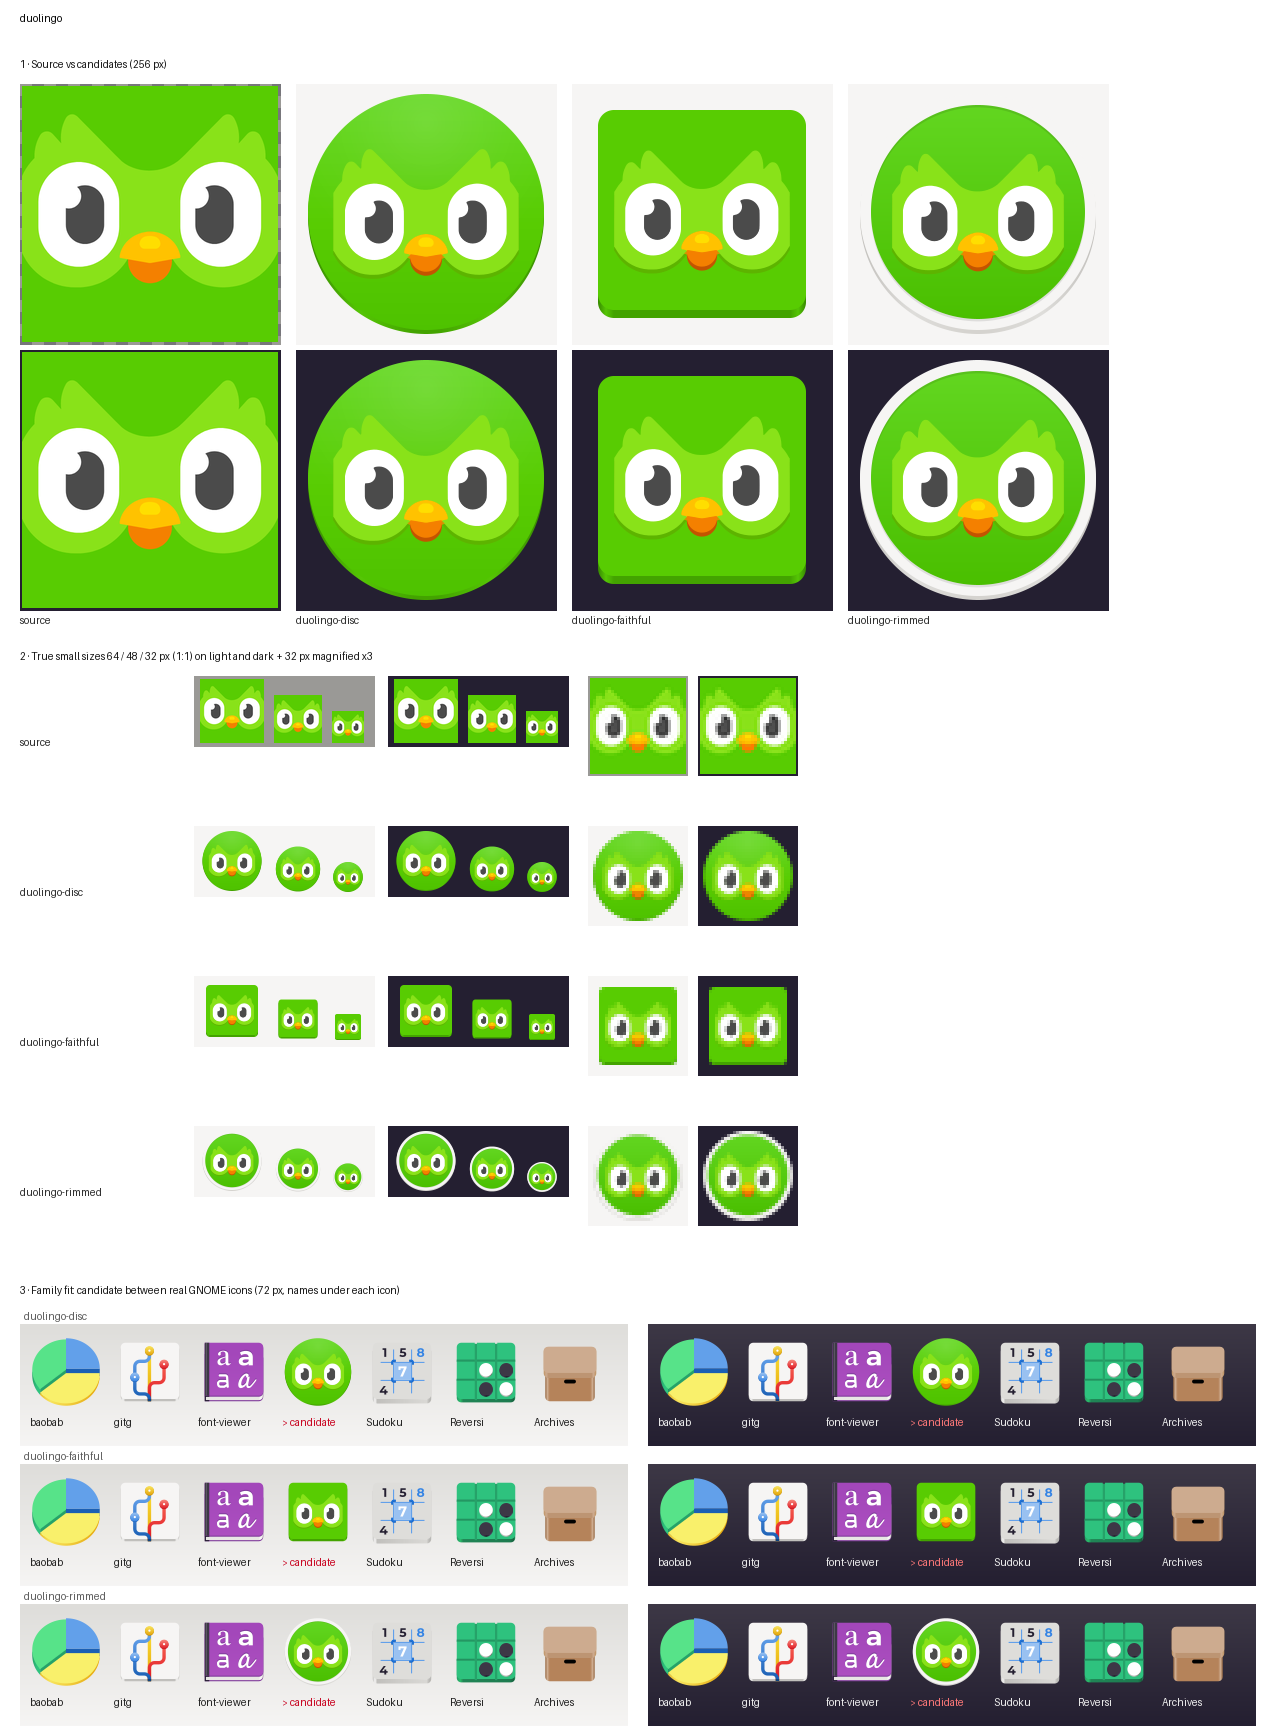
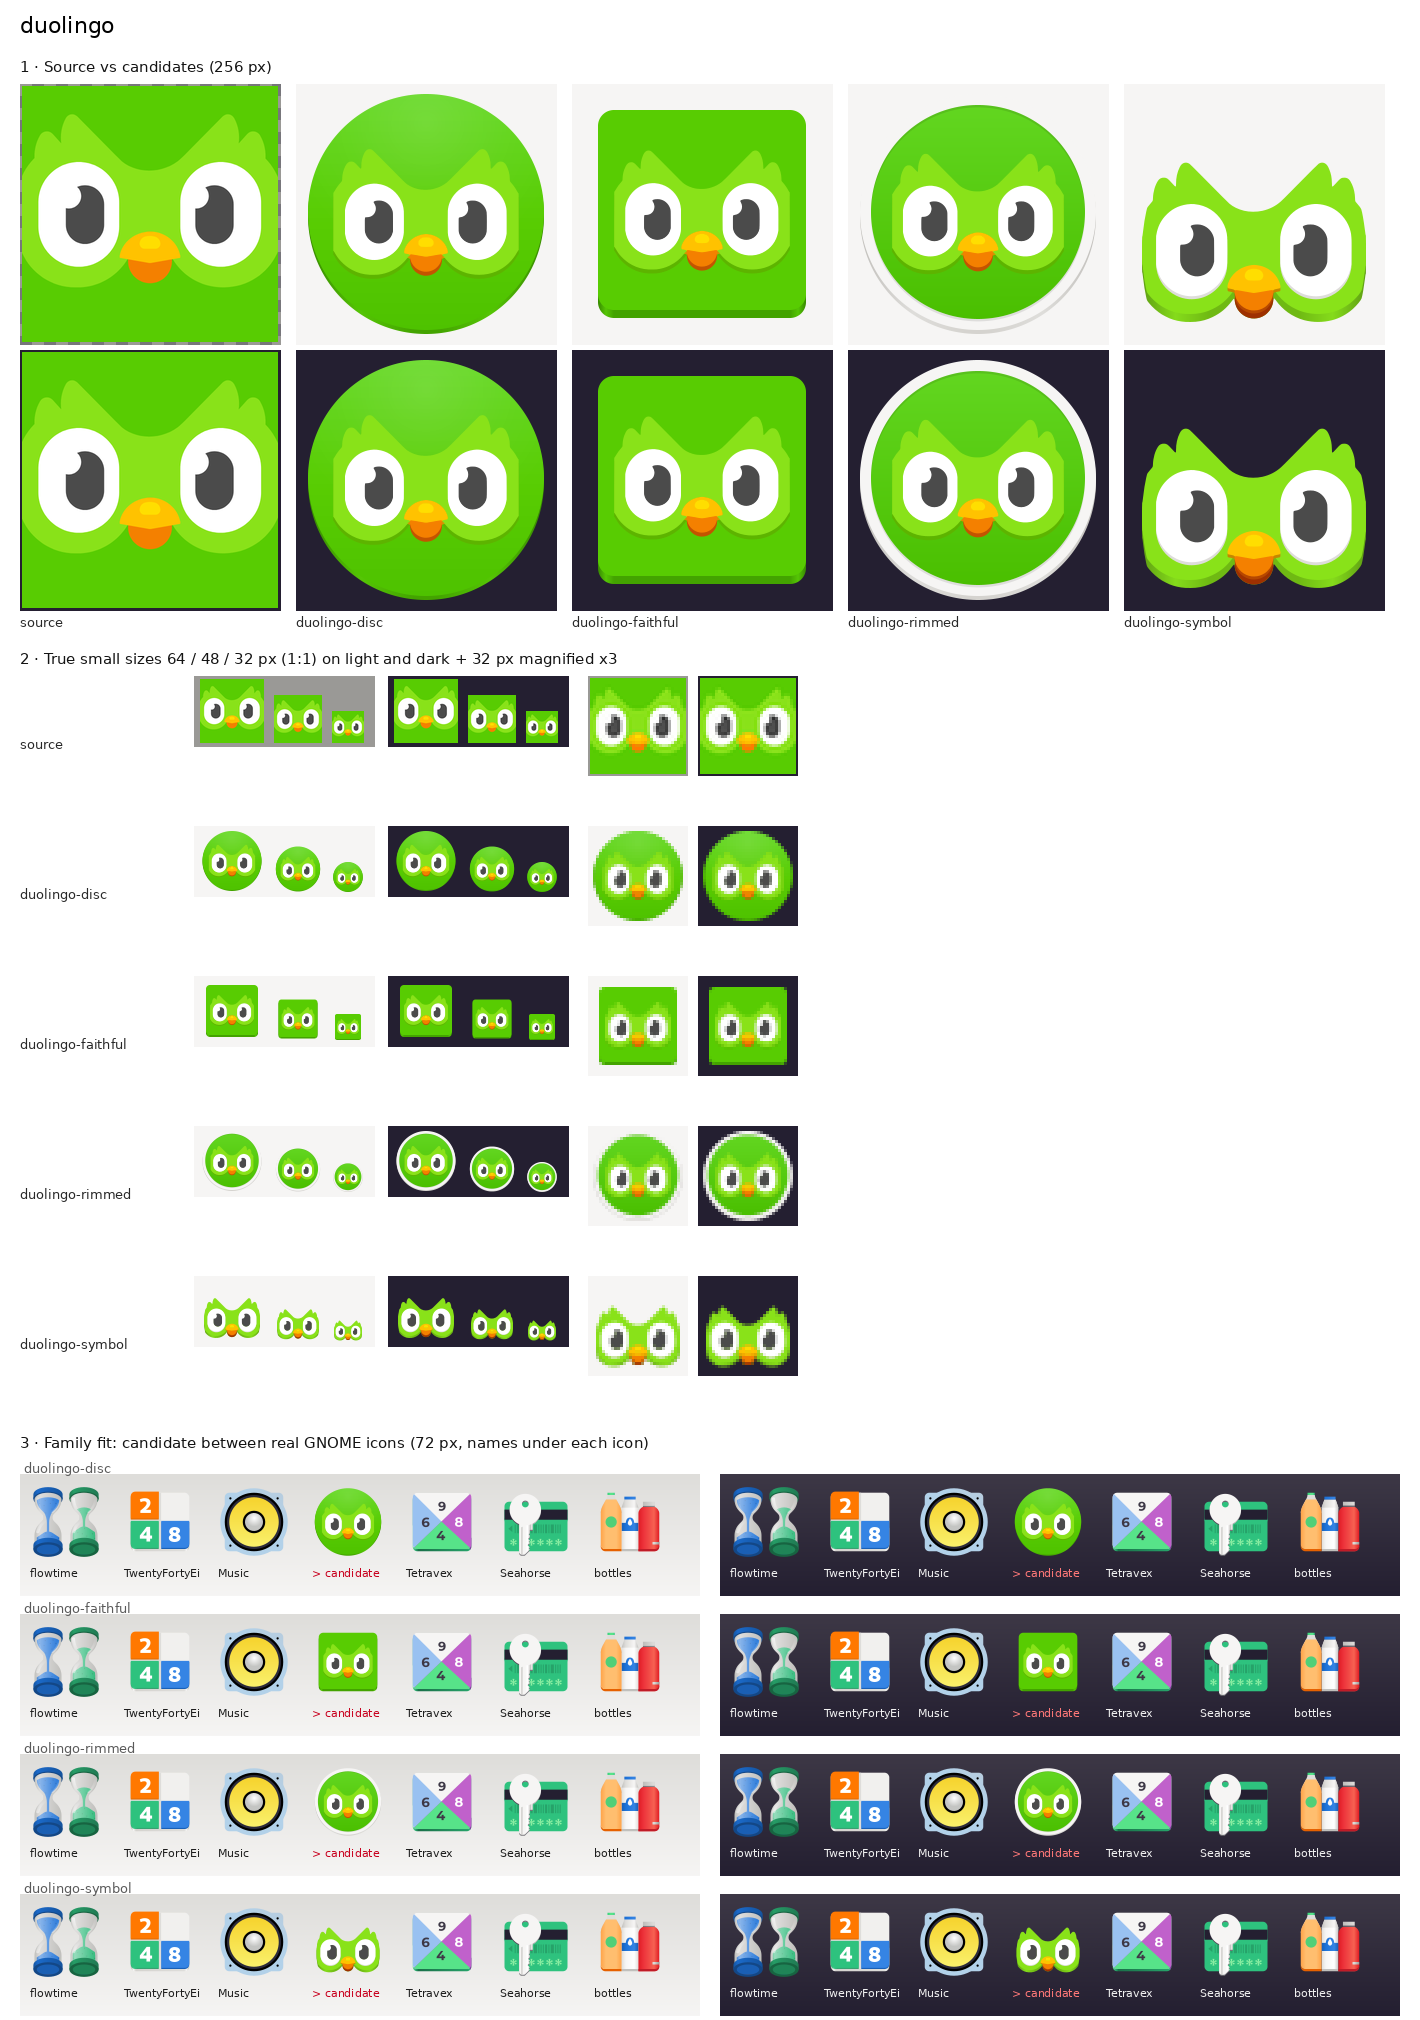
Duolingo Symbol; one plain APK artifact per style in CI
- Duolingo had no Symbol, so the Symbol APK showed it on a square plate among
  free icons. New hand-built Symbol (build_weak.duolingo): the owl head as an
  object, the tile-cut sides closed by one ellipse meeting the measured contour,
  traced eyes/pupils/beak; the beak keeps its own dark-orange side. Faithful, Disc
  and Rimmed are the unchanged automatic build. Added as duolingo_alt3 (approved
  dry-run, additive); gate 0 FAIL; pack_audit clean.
- pack_add.py: for an app already in the pack, adds only its missing styles as
  the next <slug>_altN in the app's category.
- CI: each style's APK is its own artifact, uploaded as the plain .apk
  (upload-artifact v7, archive: false) instead of one zip with all four.

Claude-Session: https://claude.ai/code/session_01FFsWQjRjvkti81EALpUKZf

diff --git a/tools/pack_add.py b/tools/pack_add.py
@@ -8,9 +8,14 @@ Disc/Rimmed/Symbol as <slug>_alt1.. in drawable.xml, records them in pack/styles
 and regenerates the per-style appfilters (tools/gen_styles.py). candybar_add.py refuses
 to overwrite an existing drawable or remap a component - nothing is ever deleted.
 Always run with --dry-run first and read the diff.
+
+An app that is ALREADY in the pack: only its missing styles are added (e.g. a Symbol
+built later) as the next free <slug>_altN, in the app's existing category; the
+Faithful icon and the existing styles are not touched.
 """
 import argparse
 import json
+import re
 import subprocess
 import sys
 from pathlib import Path
@@ -30,6 +35,8 @@ def main():
         sys.exit(f"{a.slug} not in work/_lib/batch_apps.tsv (tools/add_source.py registers it)")
     _, label, comp, _ = rows[a.slug]
     w = ROOT / "work" / a.slug
+    if (ROOT / f"app/src/main/res/drawable-nodpi/{a.slug}.png").exists():
+        return add_missing_styles(a, label, w)
     if not (w / f"{a.slug}-faithful.svg").exists():
         sys.exit("work/<slug>/<slug>-faithful.svg missing - every app needs a Faithful style")
     cmd = [sys.executable, str(ADD), "--project", str(ROOT), "--name", a.slug, "--svg", str(w / f"{a.slug}-faithful.svg"),
@@ -48,6 +55,43 @@ def main():
     p = ROOT / "pack/styles.json"
     c = json.loads(p.read_text())
     c["icons"][a.slug] = styles
+    p.write_text(json.dumps(c, indent=2, ensure_ascii=False) + "\n")
+    subprocess.run([sys.executable, str(ROOT / "tools/gen_styles.py")], check=True)
+    print("added. Now: python3 tools/gnome-android-icons/scripts/pack_audit.py --project .")
+
+
+def add_missing_styles(a, label, w):
+    """The app is in the pack: add only styles that have an SVG but no drawable yet."""
+    p = ROOT / "pack/styles.json"
+    c = json.loads(p.read_text())
+    have = c["icons"].get(a.slug, {})
+    xml = (ROOT / "app/src/main/res/xml/drawable.xml").read_text(encoding="utf-8")
+    m = re.search(r'<category title="([^"]+)"\s*/>(?:(?!<category).)*?<item drawable="' + re.escape(a.slug) + '"', xml, re.S)
+    category = m.group(1) if m else a.category
+    used = [int(n) for n in re.findall(r'drawable="' + re.escape(a.slug) + r'_alt(\d+)"', xml)]
+    nxt = max(used, default=0) + 1
+    todo = [st for st in ("disc", "rimmed", "symbol") if st not in have and (w / f"{a.slug}-{st}.svg").exists()]
+    if not todo:
+        sys.exit(f"{a.slug} is already in the pack with every style it has an SVG for - nothing to add "
+                 "(to improve existing icons use tools/pack_refresh.py)")
+    plan = {}
+    for st in todo:
+        name = f"{a.slug}_alt{nxt}"
+        nxt += 1
+        cmd = [sys.executable, str(ADD), "--project", str(ROOT), "--name", name,
+               "--svg", str(w / f"{a.slug}-{st}.svg"), "--label", f"{label} ({st.capitalize()})",
+               "--category", category, "--keep-source"] + (["--dry-run"] if a.dry_run else [])
+        print(f"{a.slug}: add style {st} as {name} (category {category})")
+        r = subprocess.run(cmd)
+        if r.returncode:
+            sys.exit(r.returncode)
+        plan[st] = name
+    print(f"pack/styles.json: {a.slug} {have} -> {dict(have, **plan)}")
+    for st, name in plan.items():
+        print(f"app/src/{st}/ appfilter: {a.slug} -> {name} (tools/gen_styles.py)")
+    if a.dry_run:
+        return
+    c["icons"][a.slug] = dict(have, **plan)
     p.write_text(json.dumps(c, indent=2, ensure_ascii=False) + "\n")
     subprocess.run([sys.executable, str(ROOT / "tools/gen_styles.py")], check=True)
     print("added. Now: python3 tools/gnome-android-icons/scripts/pack_audit.py --project .")

diff --git a/work/_lib/build_weak.py b/work/_lib/build_weak.py
@@ -648,6 +648,52 @@ def dolby_atmos():
     return out
 
 
+# ------------------------------------------------------------------ Duolingo
+@build
+def duolingo():
+    """Faithful / Sound Disc / Rimmed: the automatic build, unchanged (build_auto.App).
+
+    Symbol (free adaptation): the owl's head as an object. In the source the head is cut
+    by the tile's left and right edges (straight vertical sides from y~46 to y~83), so a
+    free head would read as a mask. The sides are closed with ONE ellipse that meets the
+    measured contour above and below the cut (centre y=64.4, half-axes 64 x 82.2 units),
+    i.e. the head keeps every measured curve and only the two straight cuts become convex.
+    Eyes, pupils and beak are the traced source parts, moved with the head as one unit."""
+    import build_auto as ba
+    out = ba.App("duolingo").build()            # faithful, disc, rimmed (symbol skipped there)
+
+    a, s = gt.load(WORK / "duolingo")
+    H, W = a.shape[:2]
+    head = gt.fill_holes(gt.near(a, "#89e219", "#58cc02") & gt.opaque(a))
+    yy, xx = np.mgrid[0:H, 0:W]
+    cy, ax, by = 1030.0, W / 2, 1315.0           # px of the 4x source (2048): see docstring
+    ell = ((xx - W / 2) / ax) ** 2 + ((yy - cy) / by) ** 2 <= 1.0
+    head_src = trace(head & ell, s)
+    P, _ = fam.geo("duolingo")
+    parts = [P["r1"], P["r2"], P["r4"], P["r3"], P["r5"]]   # eyes, pupils, lower/upper beak, highlight
+    x0, y0, x1, y1 = gk.bbox_d([head_src])
+    w = 112.0
+    h = w * (y1 - y0) / (x1 - x0)
+    ds, _ = place([head_src] + parts, (64 - w / 2, 114 - h, 64 + w / 2, 114), ref=[head_src])
+    hd, eyes, pupils, beak_lo, beak_up, beak_hi = ds
+
+    ic = gk.Icon("Duolingo - Free Symbol", note("duolingo", "owl head as an object; the tile-cut sides closed by one ellipse"))
+    # the head as an object with a 4-unit side; under the beak the side is the beak's own
+    # dark orange (the beak hangs below the head contour there)
+    hx0, _, hx1, _ = gk.bbox_d(hd)
+    with ic.group("body"):
+        ic.path(gk.translate_d(hd, 0, 4), ic.chin_gradient("#89e219", hx0, hx1, (hx1 - hx0) * 0.3),
+                layer_id="body-chin", fill_rule="evenodd")
+        ic.path(gk.translate_d(beak_lo, 0, 4), shade("#f48000", -0.25), layer_id="beak-chin", fill_rule="evenodd")
+        ic.path(hd, "#89e219", layer_id="body-face", fill_rule="evenodd")
+    fam.raised(ic, [(eyes, "#ffffff", "#deddda"),
+                    (beak_lo, "#f48000", shade("#f48000", -0.18)),
+                    (beak_up, "#ffc200", shade("#ffc200", -0.18))], lift=1.5, layer="mark")
+    fam.raised(ic, [(pupils, "#4b4b4b", None), (beak_hi, "#ffde00", None)], lift=0, layer="inlay")
+    out["symbol"] = ic
+    return out
+
+
 # ------------------------------------------------------------------ Gnomed (our own logo)
 @build
 def gnomed():

diff --git a/work/_lib/build_auto.py b/work/_lib/build_auto.py
@@ -37,7 +37,7 @@ OVERRIDES = {
     # face bleeds off the left/right edge of the source tile: a free symbol would be a
     # "mask" with straight cut sides (completing them would invent the head silhouette)
     "duolingo": {"skip": ["symbol"], "rimmed_scale": 1.1,
-                 "note": "no Symbol: the source face is cropped by the tile's left/right edges, so the free face stands on straight cut sides (a mask); Rimmed mark enlarged to fill the recess"},
+                 "note": "Symbol is hand-built (build_weak.duolingo closes the tile-cut sides); Rimmed mark enlarged to fill the recess"},
     # game posters (archetype H): no clean vector identity element in a 192 px poster
     "clash_royale": {"skip": ["symbol"], "note": "WEAK: posterised trace of the game poster, not a real GNOME conversion; needs a hand-drawn emblem (crown/king) from a better source"},
     # blurry 192 px source: the pale green region is the blur halo + the semi-transparent mic

diff --git a/work/duolingo/brief.md b/work/duolingo/brief.md
@@ -13,10 +13,13 @@ Alternatives:
 * `duolingo-rimmed.svg` — Adwaita rim + recessed green disc, mark at 1.1× the default
   rimmed width so it does not look small in the recess.
 
-**No Symbol** (`skip: ["symbol"]`, falls back to Faithful): in the source the face
-bleeds off the tile's left/right edges, so a free face stands on straight cut sides and
-reads as a mask. Completing that silhouette would invent the shape of the head, which
-the project forbids; inverting it turned the white eyes into tile-green sockets.
+**Symbol** (`duolingo-symbol.svg`, hand-built in `work/_lib/build_weak.py`, free
+adaptation): the owl's head as an object. In the source the head is cut by the tile's
+left/right edges; the two straight cuts are closed by one ellipse that meets the measured
+contour above and below them, so every measured curve is kept and only the cuts become
+convex. Eyes, pupils and beak are the traced parts, moved with the head as one unit; under
+the beak the object's side is the beak's dark orange. (The first version shipped without a
+Symbol, so the Symbol APK showed Duolingo on a square plate.)
 
 Measured: ssim32 faithful 0.864 / disc 0.869 / rimmed 0.796 (official median 0.82); no
 fused gaps at 32 px; visual mass inside the pack's range.
@@ -29,9 +32,8 @@ Known weaknesses:
 * Repeating the mask problem of Shizuku: solved here by not shipping a Symbol.
 
 Not verified: not tested on a real launcher; the ComponentInfo
-`ComponentInfo{com.duolingo/com.duolingo.app.LoginActivity}` comes from published
-icon-pack appfilters (materialos/android-icon-pack, baitmooth/snow, varlesh/theia),
-not from the APK manifest — no APK was available on this device.
+`ComponentInfo{com.duolingo/com.duolingo.app.LoginActivity}` was verified on the owner's phone
+(`cmd package resolve-activity`: `com.duolingo/.app.LoginActivity`).
 
-Files: `duolingo-{faithful,disc,rimmed}.svg`, `png/duolingo-*-512.png` + `-256.png`,
+Files: `duolingo-{faithful,disc,rimmed,symbol}.svg`, `png/duolingo-*-512.png` + `-256.png`,
 `review.png`, `styles.png`.

diff --git a/docs/STATUS.md b/docs/STATUS.md
@@ -13,7 +13,6 @@ Apps: 87 · with FAIL: 0 · with WARN: 39
 | `smart_launcher` | 0 | 3 | symbol · visible_light · 0.48 → R6; app · stripes · ['#7cc8f7', '#5fbbff', '#668dfe', '#7171 → R1; app · trace_iou · {'r2': 0.6499, 'r3': 0.8654, 'r4': 0.291 → R12 |
 | `ashell_you` | 0 | 2 | symbol · visible_dark · 0.32 → R6; symbol · baseline · 125.0 → R9 baseline |
 | `cloudstream` | 0 | 2 | app · stripes · ['#4186d5', '#4081e6', '#2148db', '#2009 → R1; app · trace_iou · {'r1': 0.8881} → R12 |
-| `duolingo` | 0 | 2 | app · stripes · ['#f48000', '#ffc200', '#ffde00'] → R1; app · trace_iou · {'r5': 0.6262} → R12 |
 | `frostkeys` | 0 | 2 | app · stripes · ['#b7e2ff', '#2673eb', '#8aa0ff'] → R1; app · trace_iou · {'r2': 0.8245} → R12 |
 | `nuvio` | 0 | 2 | app · stripes · ['#3cc3e2', '#2970c7', '#5059d2', '#7744 → R1; app · trace_iou · {'r1': 0.8882, 'r3': 0.8746} → R12 |
 | `obtainx` | 0 | 2 | app · stripes · ['#aaa9d8', '#5431a7', '#8051bf'] → R1; app · trace_iou · {'r2': 0.8216} → R12 |
@@ -23,6 +22,7 @@ Apps: 87 · with FAIL: 0 · with WARN: 39
 | `apple_music` | 0 | 1 | symbol · visible_light · 0.35 → R6 |
 | `bare` | 0 | 1 | app · stripes · ['#6bbcf8', '#55a0f6', '#4987f6', '#3e6d → R1 |
 | `binance_tr` | 0 | 1 | symbol · mass · 0.19 → R10 scale |
+| `duolingo` | 0 | 1 | app · stripes · ['#f48000', '#ffc200', '#ffde00'] → R1 |
 | `f_droid` | 0 | 1 | app · trace_iou · {'r2': 0.8843, 'r3': 0.7638} → R12 |
 | `ffupdater` | 0 | 1 | app · trace_iou · {'r2': 0.8682} → R12 |
 | `firefox_nightly` | 0 | 1 | app · trace_iou · {'r2': 0.8904} → R12 |

diff --git a/docs/course/07-shipping.md b/docs/course/07-shipping.md
@@ -69,7 +69,11 @@ Change its build, `python3 tools/make_icon.py <slug>`, then
 python3 tools/pack_refresh.py <slug>
 ```
 
-It first rebuilds the app with its own builder (`work/_lib/builders.py`: hand-built apps
+A style that was built later (e.g. a Symbol for an app that had none) is added with
+`python3 tools/pack_add.py <slug> --dry-run`: for an app already in the pack it adds only the
+missing styles as the next `<slug>_altN`, in the app's category.
+
+`pack_refresh.py` first rebuilds the app with its own builder (`work/_lib/builders.py`: hand-built apps
 with `build_weak.py` / `build_group1.py`, the rest with `build_auto.py`), then re-renders the
 existing PNGs; it never renames or removes anything.
 

diff --git a/CONTRIBUTING.md b/CONTRIBUTING.md
@@ -431,7 +431,8 @@ no busy patterns, no generated images.
 * **CI** (`.github/workflows/build.yml`) on every push: checks the per-style files
   are up to date (`gen_styles.py --check`), builds the four style APKs, fails if
   R8 removed `WorkDatabase_Impl.<init>()` (a real startup crash we had), prints the
-  signing certificate, uploads the APKs as an artifact.
+  signing certificate, uploads each style's APK as its own artifact (a plain
+  `gnomed-<style>.apk`, no zip).
 * **Releases** are published when a pushed commit message contains `[release]`
   (or a `v*` tag / manual run). The in-app style switcher downloads
   `gnomed-<style>.apk` from the **latest** release. Only the maintainer releases.
